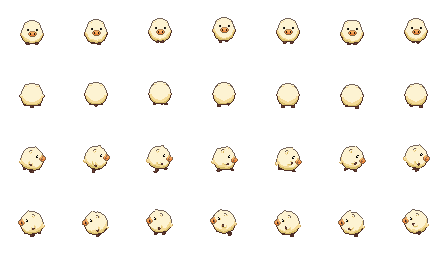
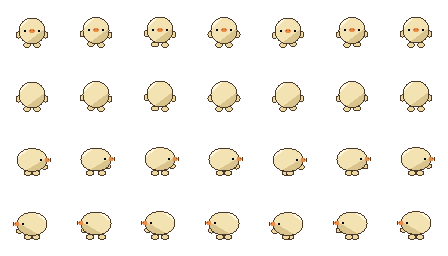
PRコメント対応: きーを饅頭形に描き直し、店内を古民家風に、峠道にセンターライン
- きー/ぴー: 正面は円、横は楕円のつぶれた饅頭形。手足もクリーム色、耳なし、目は鼻と同じ高さの黒い点
- ほうとうを食べるちゃんの一枚絵: 箸は右手だけ。顔は映さない。机の上のきーも新しい形に
- ほうとう屋の中を古民家風に: 土間とかまど、板の間とちゃぶ台、座布団、たんすの上のラジオ、大黒柱
- 鍋の一枚絵も、かまどの上の鉄鍋に
- 峠道と湖畔の道路にセンターライン(点線)
- きーの見た目の指定を docs と設定統合版に記録

Claude-Session: https://claude.ai/code/session_01CdRwgmiiRbABwrAE7HmzdN

diff --git a/field/worlds.js b/field/worlds.js
@@ -18,9 +18,12 @@
     tires: { img: "s_tires", w: 48, h: 48, top: 12, bottom: 37, solid: [22, 10] },
     sign: { img: "s_sign", w: 32, h: 64, top: 2, bottom: 62, solid: [8, 6] },
     shard: { img: "s_shard", w: 32, h: 32, top: 4, bottom: 26 },
-    table: { img: "i_table", w: 96, h: 64, top: 7, bottom: 57, solid: [78, 26] },
-    chair: { img: "i_chair", w: 32, h: 48, top: 5, bottom: 43, solid: [20, 10] },
-    stool: { img: "i_stool", w: 32, h: 32, top: 6, bottom: 26, solid: [16, 8] },
+    kamado: { img: "k_kamado", w: 128, h: 64, top: 4, bottom: 60, solid: [72, 26] },
+    post: { img: "k_post", w: 32, h: 64, top: 3, bottom: 60, solid: [16, 8] },
+    tansu: { img: "k_tansu", w: 64, h: 64, top: 8, bottom: 57, solid: [50, 20] },
+    chabudai: { img: "k_table", w: 96, h: 64, top: 6, bottom: 58, solid: [60, 22] },
+    zabuton: { img: "k_zabuton", w: 32, h: 32, top: 6, bottom: 27 },
+    zabutonS: { img: "k_zabuton_s", w: 32, h: 32, top: 7, bottom: 25 },
     radio: { img: "i_radio", w: 32, h: 32, top: 5, bottom: 27 },
   };
 
@@ -72,6 +75,27 @@
     return g.map((row) => row.join(""));
   }
 
+  // センターライン: 道の中心を点線でなぞる
+  function centerLine(ctx, ox, oy, points) {
+    ctx.fillStyle = "#e7c34a";
+    const DASH = 10;
+    const GAP = 8;
+    let run = 0;
+    for (let i = 0; i < points.length - 1; i++) {
+      const [x0, y0] = points[i];
+      const [x1, y1] = points[i + 1];
+      const len = Math.hypot(x1 - x0, y1 - y0);
+      for (let d = 0; d < len; d += 2) {
+        if ((run + d) % (DASH + GAP) < DASH) {
+          const x = Math.round(x0 + ((x1 - x0) * d) / len + ox);
+          const y = Math.round(y0 + ((y1 - y0) * d) / len + oy);
+          ctx.fillRect(x - 1, y - 1, 2, 2);
+        }
+      }
+      run += len;
+    }
+  }
+
   function nearRoad(grid, r, c, d) {
     for (let dr = -d; dr <= d; dr++)
       for (let dc = -d; dc <= d; dc++) {
@@ -114,6 +138,9 @@
     },
     wang: { road: { img: "wang_road", size: 32, lookup: WANG16 } },
     backdrop: { img: "fuji", x: 0, y: 16, scale: 2 },
+    drawGround(ctx, ox, oy) {
+      centerLine(ctx, ox, oy, ROAD_PATH.map(([r, c]) => [(c + 0.5) * T, (r + 0.5) * T]).concat([[15.5 * T, 10.5 * T]]));
+    },
     spawns: {
       start: { x: 7.5 * T, y: 58.5 * T, facing: "north" },
       pass: { x: 13.2 * T, y: 10.6 * T, facing: "west" },
@@ -146,9 +173,9 @@
           w: 64,
           h: 64,
           x: 8.6 * T,
-          y: 45.3 * T - 13,
-          sortDy: 13,
-          headY: 12,
+          y: 45.3 * T - 15,
+          sortDy: 15,
+          headY: 14,
           solid: { w: 18, h: 8, dy: 9 },
           range: 36,
           nearRange: 56,
@@ -208,6 +235,9 @@
       ice: { img: "wang_ice", size: 32, lookup: WANG16 },
     },
     backdrop: { img: "fuji", x: 0, y: 16, scale: 2 },
+    drawGround(ctx, ox, oy) {
+      centerLine(ctx, ox, oy, [[-T, 18 * T], [16 * T, 18 * T]]);
+    },
     spawns: {
       west: { x: 0.9 * T, y: 18 * T, facing: "east" },
       door: { x: 9.3 * T, y: 17 * T, facing: "south" },
@@ -263,54 +293,50 @@
     ],
   };
 
-  // ---- ほうとう屋の中 ----
+  // ---- ほうとう屋の中(古民家): 左が土間とかまど、右が板の間とちゃぶ台 ----
+  const TANSU_FOOT = [12 * T, 2.9 * T];
   const SHOP = {
     tile: T,
     bg: "#140f12",
     map: [
       "XUUUUUUUUUUUUUX",
       "XLLLLLLLLLLLLLX",
-      "XfffffffffffffX",
-      "XfffffffffffffX",
-      "XfffffffffffffX",
-      "XfffffffffffffX",
-      "XfffffffffffffX",
-      "XffffffdddffffX",
-      "XffffffdddffffX",
-      "XXXXXXXdddXXXXX",
+      "XdddddffffffffX",
+      "XdddddffffffffX",
+      "XdddddffffffffX",
+      "XdddddffffffffX",
+      "XdddddffffffffX",
+      "XdddddffffffffX",
+      "XdddddffffffffX",
+      "XXdddXXXXXXXXXX",
     ],
     legend: {
-      X: { solid: true, color: "#2b1d17" },
-      U: { solid: true, img: "i_wall", crop: [0, 0] },
-      L: { solid: true, img: "i_wall", crop: [0, 32] },
+      X: { solid: true, color: "#1e1511" },
+      U: { solid: true, img: "k_wall", crop: [0, 0] },
+      L: { solid: true, img: "k_wall", crop: [0, 32] },
       f: { wang: "floor" },
       d: { wang: "floor", lowerOf: ["floor"] },
     },
     wang: { floor: { img: "wang_floor", size: 32, lookup: WANG16 } },
-    spawns: { door: { x: 8.5 * T, y: 8.4 * T, facing: "north" } },
-    triggers: [{ id: "out", x: 7 * T, y: 9.4 * T, w: 3 * T, h: T, warp: { map: "lake", spawn: "door" } }],
+    spawns: { door: { x: 3.5 * T, y: 8.4 * T, facing: "north" } },
+    triggers: [{ id: "out", x: 2 * T, y: 9.4 * T, w: 3 * T, h: T, warp: { map: "lake", spawn: "door" } }],
     objects: [
-      {
+      at("kamado", 3 * T, 3.9 * T, {
         id: "pot",
-        img: "i_counter",
-        w: 128,
-        h: 64,
-        x: 7.5 * T,
-        y: 1 * T,
-        headY: 10,
-        iy: 40,
-        range: 34,
+        range: 40,
         interact(api) {
           api.show("v_pot");
         },
-      },
-      at("radio", 12.5 * T, 2.6 * T, {
+      }),
+      at("post", 6 * T, 3 * T),
+      at("post", 6 * T, 8.9 * T),
+      at("tansu", TANSU_FOOT[0], TANSU_FOOT[1]),
+      // たんすの上のラジオ
+      Object.assign(at("radio", TANSU_FOOT[0] + 6, TANSU_FOOT[1] - 38), {
         id: "radio",
-        range: 34,
-        draw(ctx, sx, sy) {
-          ctx.fillStyle = "#5a3b28";
-          ctx.fillRect(sx - 18, sy + 11, 36, 4);
-        },
+        sortDy: 60,
+        iy: 49,
+        range: 40,
         interact(api) {
           api.bubble("radio", "……あすの金星は、晴れ……", 3600);
           if (!api.hasWord("金星の天気予報")) {
@@ -319,9 +345,11 @@
           }
         },
       }),
-      at("chair", 7.5 * T, 4.4 * T, {
+      // ちゃんの座布団
+      at("zabuton", 9.5 * T, 4.4 * T, {
         id: "chair",
-        range: 36,
+        sortDy: -20,
+        range: 30,
         interact(api) {
           if (!api.flag("memory")) {
             api.mutter("……");
@@ -342,19 +370,20 @@
           );
         },
       }),
-      at("table", 7.5 * T, 6.1 * T),
-      at("stool", 7.5 * T, 7.2 * T),
+      at("chabudai", 9.5 * T, 6.3 * T),
+      // きーの小さな座布団
+      at("zabutonS", 9.5 * T, 7.7 * T, { sortDy: -20 }),
       {
         id: "noren",
-        x: 8.5 * T,
+        x: 3.5 * T,
         y: 9 * T,
         w: 1,
         h: 1,
         sortDy: 40,
         draw(ctx, sx, sy) {
-          ctx.fillStyle = "#8c2230";
+          ctx.fillStyle = "#1f2e52";
           ctx.fillRect(sx - 46, sy - 2, 92, 10);
-          ctx.fillStyle = "#6b1824";
+          ctx.fillStyle = "#16213d";
           for (let i = -46; i < 46; i += 23) ctx.fillRect(sx + i + 21, sy - 2, 2, 10);
         },
       },
@@ -383,18 +412,20 @@
         s_tires: "s_tires.png",
         s_sign: "s_sign.png",
         s_shard: "s_shard.png",
-        i_wall: "i_wall.png",
-        i_counter: "i_counter.png",
-        i_table: "i_table.png",
-        i_chair: "i_chair.png",
-        i_stool: "i_stool.png",
+        k_wall: "k_wall.png",
+        k_kamado: "k_kamado.png",
+        k_table: "k_table.png",
+        k_zabuton: "k_zabuton.png",
+        k_zabuton_s: "k_zabuton_s.png",
+        k_tansu: "k_tansu.png",
+        k_post: "k_post.png",
         i_radio: "i_radio.png",
         v_window: "v_window.png",
         v_table: "v_table.png",
         v_road: "v_road.png",
         v_pot: "v_pot.png",
       },
-      playerSprite: { img: "ki", cell: 64, frames: 7, footY: 19 },
+      playerSprite: { img: "ki", cell: 64, frames: 7, footY: 17 },
       start: "road",
       startSpawn: "start",
       maps: { road: ROAD, lake: LAKE, shop: SHOP },

diff --git a/field/index.html b/field/index.html
@@ -8,7 +8,7 @@
   <meta name="apple-mobile-web-app-status-bar-style" content="black-translucent">
   <meta name="mobile-web-app-capable" content="yes">
   <title>ぼぎだぢ - 懲罰空間</title>
-  <link rel="stylesheet" href="./style.css?v=4">
+  <link rel="stylesheet" href="./style.css?v=5">
 </head>
 <body>
   <header class="field-header">
@@ -78,8 +78,8 @@
     <small>© Character Project</small>
   </footer>
 
-  <script src="./rpg.js?v=4"></script>
-  <script src="./worlds.js?v=4"></script>
-  <script src="./script.js?v=4"></script>
+  <script src="./rpg.js?v=5"></script>
+  <script src="./worlds.js?v=5"></script>
+  <script src="./script.js?v=5"></script>
 </body>
 </html>

diff --git a/field/rpg.js b/field/rpg.js
@@ -404,6 +404,8 @@
         }
       }
 
+      if (map.drawGround) map.drawGround(ctx, ox, oy);
+
       // y順に並べて、手前のものほど後に描く
       const drawables = visibleObjects().map((o) => ({ y: o.y + (o.sortDy || 0), o }));
       drawables.push({ y: player.y, player: true });

diff --git a/field/script.js b/field/script.js
@@ -457,6 +457,7 @@
     if (!def || transitioning) return;
     transition(() => {
       worldFrag = frag;
+      dismissIntro();
       fragmentBox.hidden = true;
       galleryHint.hidden = true;
       currentNear = null;

diff --git a/docs/bogidachi.md b/docs/bogidachi.md
@@ -122,6 +122,7 @@
 - **状態の保存**: もちもの・ことば・探索ずみの世界・フラグを `localStorage`(`bogidachi.field.v1`)に保存する。保存できない環境では、その回かぎり。
 - **言葉は少なく(作者の方針)**: 説明しない。世界は少しずつ現れる。きーはあまり話さず、意味のわからない固有名詞(「ちゃん」「ほうとう」「だざいおさむん」)をつぶやくだけ。意味は、絵と体験で少しずつわかるようにする(例: 車の窓で「ちゃん」→ 最初は ちゃん=車? → ほうとう屋のちゃんの席で、人だったとわかる)。旅の記憶は一枚絵で見せる。
 - **見せる道具**: 吹き出し `api.bubble()` / きーのつぶやき `api.mutter()`、一枚絵 `api.show()`、カメラ `api.pan()`(景色が開ける演出)、マップ間の出入口 `warp`。長い文章の `say()` はなるべく使わない。
+- **きーの見た目(作者)**: 正面から見ると円、横から見ると楕円。つぶれた饅頭のような形。手足もクリーム色。耳はない。目は鼻と同じ高さの、真っ黒な点。ぴーは同型の色違い(ピンク)。スプライトはこの指定どおりにドットで描いている(`field/assets/worlds/lake/ki_walk.png`)。
 - **ビジュアル(作者の方針)**: スーパーファミコン時代のドット絵。キャラは64×64、マップチップは32×32。世界は2倍に拡大して描く(`rpg.js` の `ZOOM`)。
 
 ### できている断片

diff --git a/bogidoc/ぼぎだぢ_設定統合.md b/bogidoc/ぼぎだぢ_設定統合.md
@@ -85,6 +85,8 @@
 
 > 超現実爆弾が炸裂した後も、廃兵院には傷痍軍人がしばらく穏やかに暮らしていた。民芸品や玩具を手すさびで作っていた。
 
+> （PRコメントより）きーは正面から見たときに、円。横から見たときは楕円。つぶれた饅頭のような形。手足もクリーム色。耳はいらない。目は鼻と同じ高さで真っ黒なドット。
+
 ---
 
 ## 2. 索引（作者の言葉だけで引ける形）
